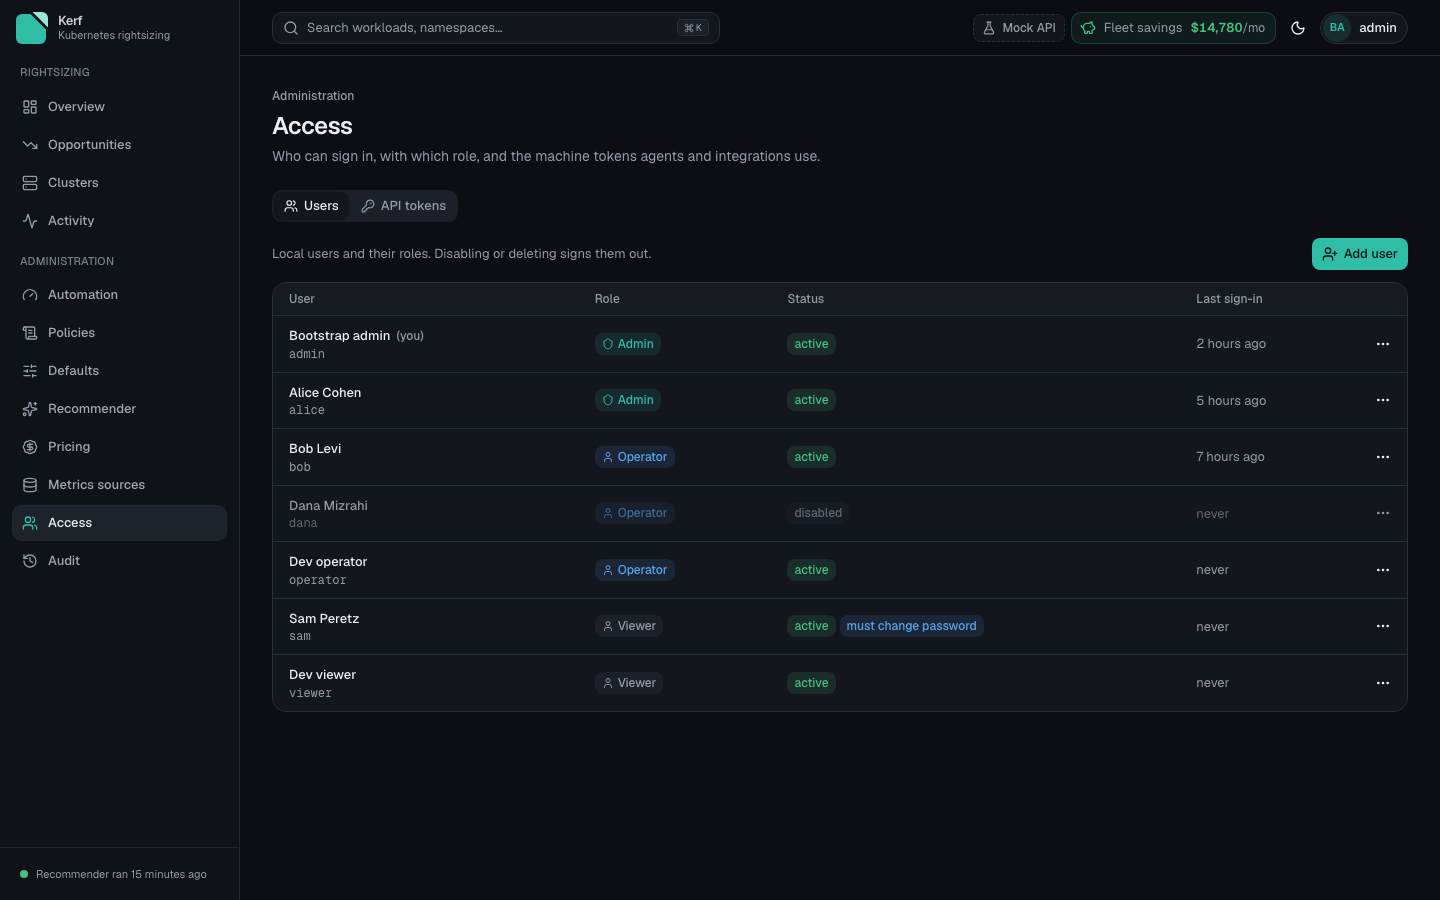
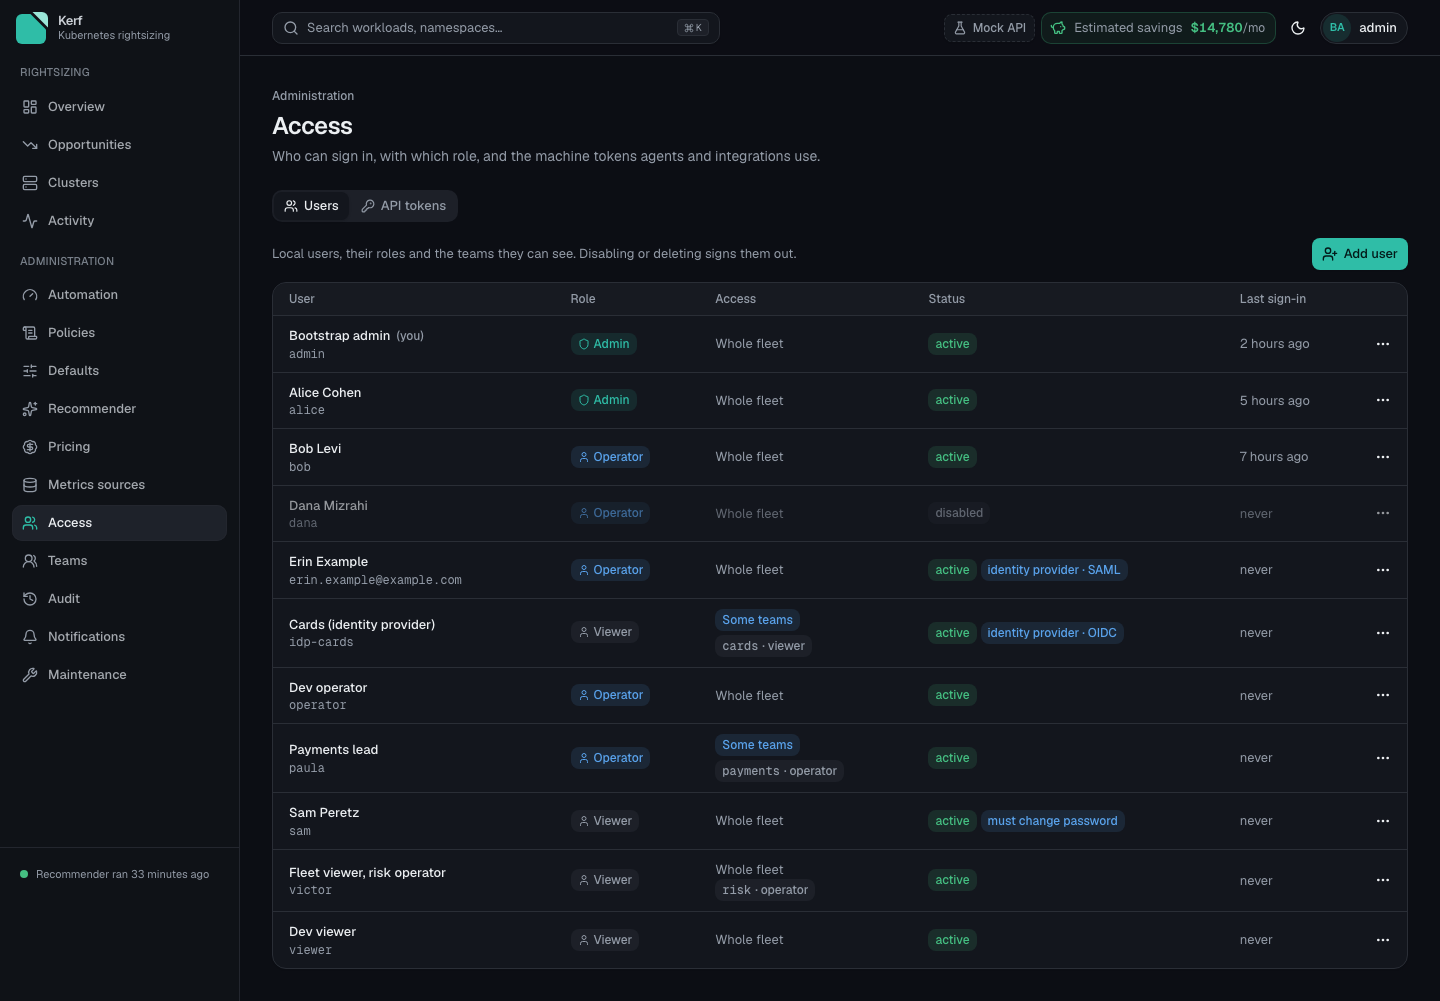
docs: screenshots of SAML sign-in and SAML users

diff --git a/web/e2e/screenshots.spec.ts b/web/e2e/screenshots.spec.ts
@@ -10,7 +10,7 @@ const dir = process.env.SCREENSHOTS_DIR
 
 // Every page but the sign-in page needs a session: a viewer unless a shot signs in as someone else.
 test.beforeEach(async ({ page }, info) => {
-  if (!info.title.startsWith('login ')) await seedSession(page, 'viewer')
+  if (!info.title.startsWith('login')) await seedSession(page, 'viewer')
 })
 const pages = [
   ['overview', '/'],
@@ -107,6 +107,19 @@ type Shot = {
 
 const adminShots: Shot[] = [
   { name: 'login', path: '/login' },
+  {
+    // Both identity providers offered: OpenID Connect and SAML, above the password form.
+    name: 'login-saml',
+    path: '/login',
+    act: async (p) => {
+      await p.evaluate(() => {
+        localStorage.setItem('ro-mock-oidc', 'on')
+        localStorage.setItem('ro-mock-saml', 'on')
+      })
+      await p.reload()
+      await expect(p.getByTestId('saml-sign-in')).toBeVisible()
+    },
+  },
   { name: 'admin-automation', user: 'admin', path: '/admin', tablet: true },
   { name: 'admin-policies', user: 'admin', path: '/admin/policies' },
   {

diff --git a/web/src/pages/admin/access-teams.test.tsx b/web/src/pages/admin/access-teams.test.tsx
@@ -159,12 +159,12 @@ describe('Access page: teams', () => {
   it('shows SAML users as identity-provider users, read-only, without a password', async () => {
     await signIn('admin')
     renderPage()
-    const priya = await screen.findByTestId('user-priya.shah@example.com')
-    expect(within(priya).getByTestId('idp-user')).toHaveTextContent('identity provider · SAML')
+    const erin = await screen.findByTestId('user-erin.example@example.com')
+    expect(within(erin).getByTestId('idp-user')).toHaveTextContent('identity provider · SAML')
     expect(within(await screen.findByTestId('user-idp-cards')).getByTestId('idp-user')).toHaveTextContent(
       'OIDC',
     )
-    fireEvent.pointerDown(screen.getByRole('button', { name: 'Actions for priya.shah@example.com' }), {
+    fireEvent.pointerDown(screen.getByRole('button', { name: 'Actions for erin.example@example.com' }), {
       button: 0,
     })
     await screen.findByRole('menuitem', { name: 'Disable' })

diff --git a/web/src/mocks/admin-state.ts b/web/src/mocks/admin-state.ts
@@ -548,12 +548,12 @@ export function seedAdmin(db: MockDb): AdminState {
   )
   user(
     {
-      username: 'priya.shah@example.com',
+      username: 'erin.example@example.com',
       role: 'operator',
-      displayName: 'Priya Shah',
+      displayName: 'Erin Example',
       createdBy: 'saml',
       source: 'saml',
-      email: 'priya.shah@example.com',
+      email: 'erin.example@example.com',
       scope: 'fleet',
     },
     6,
